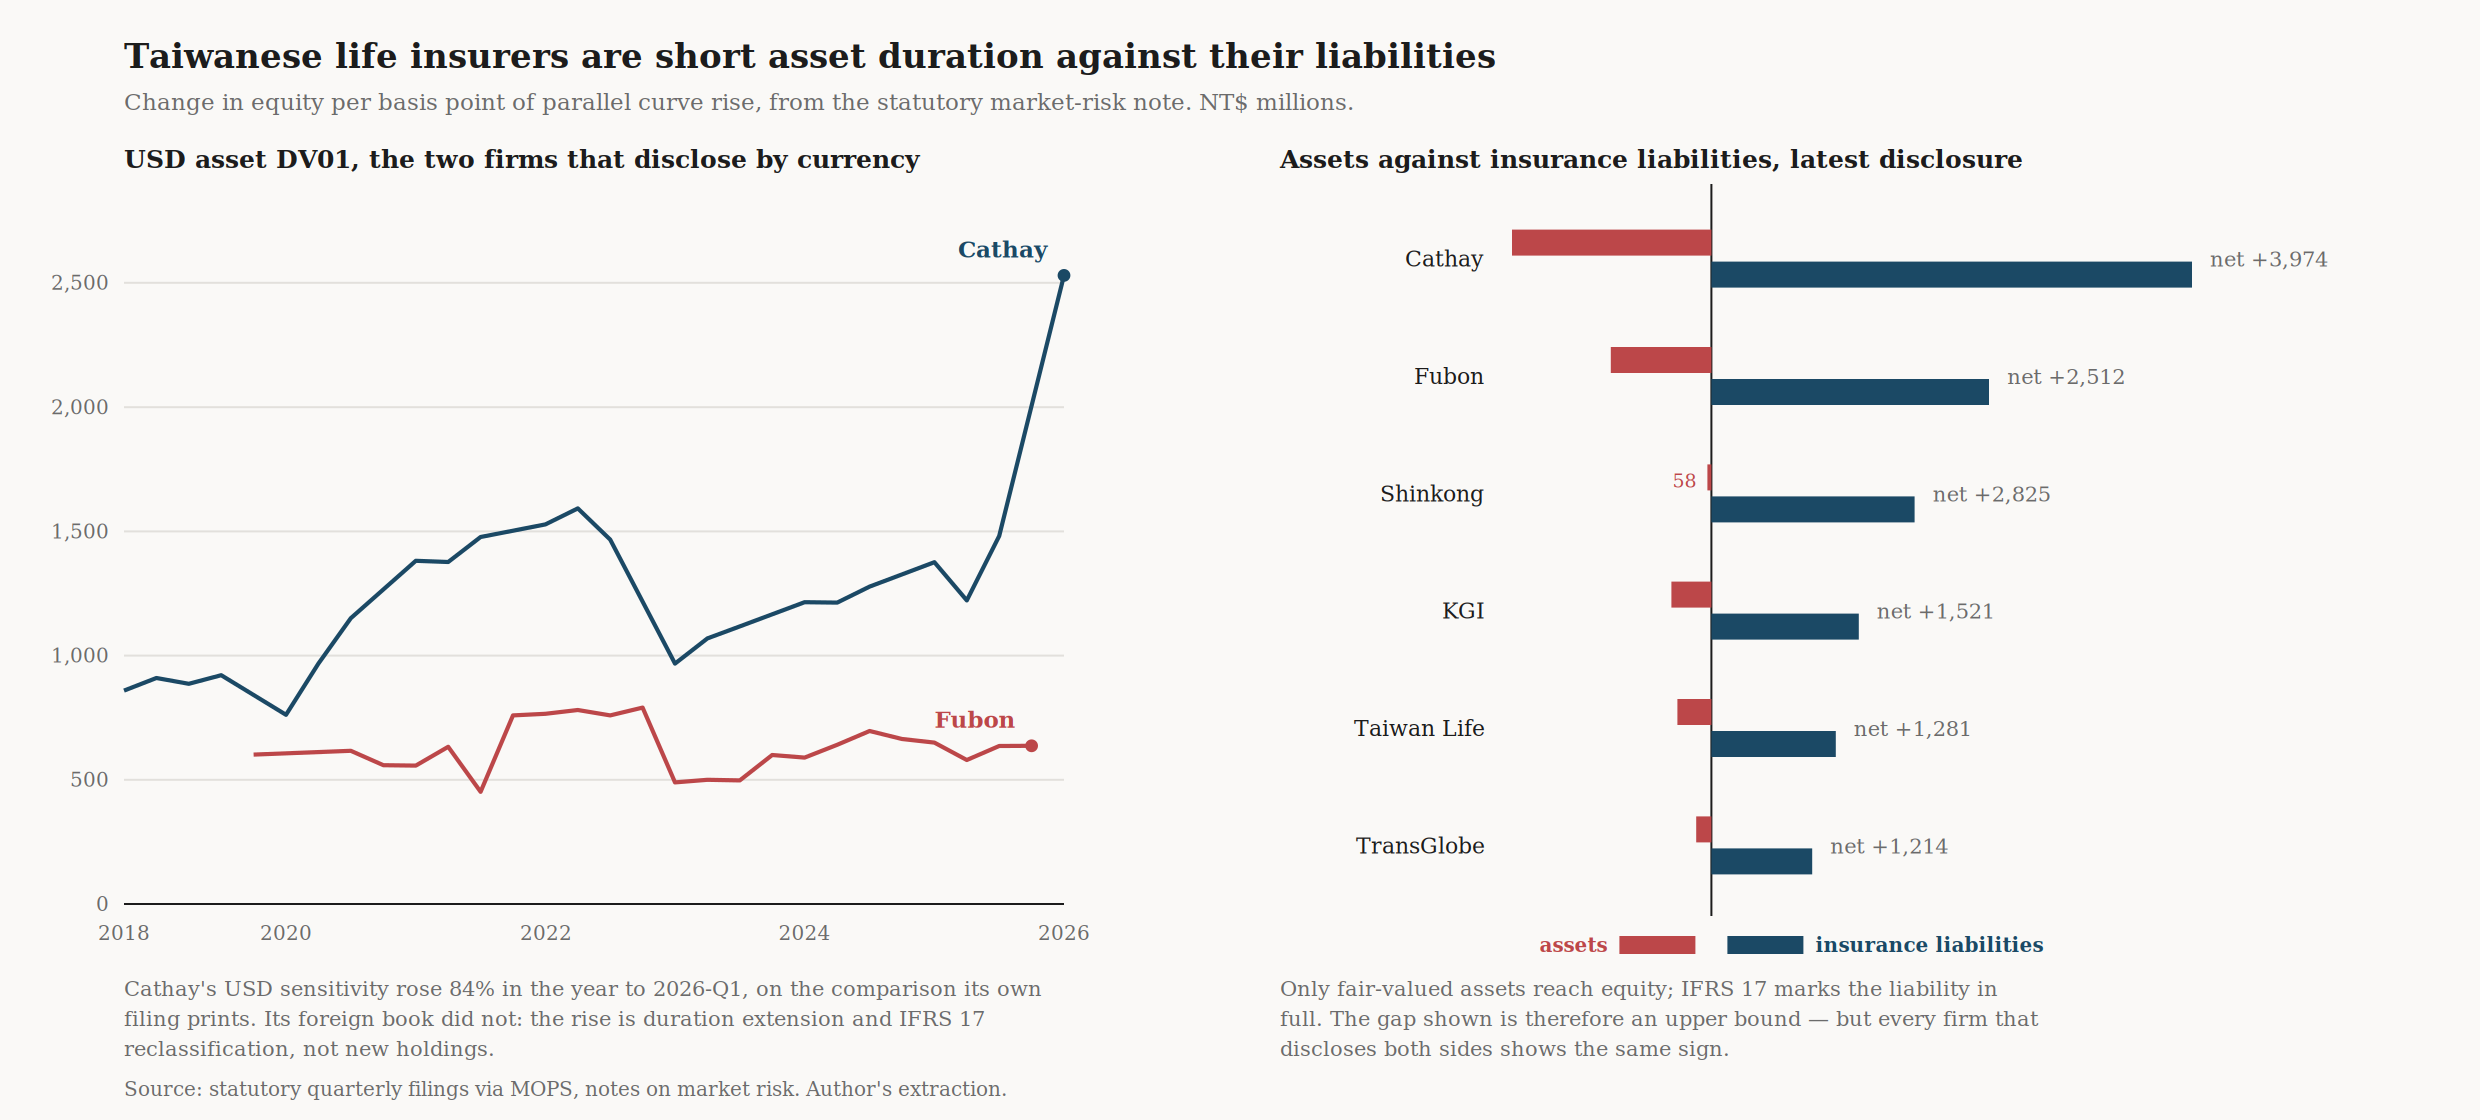
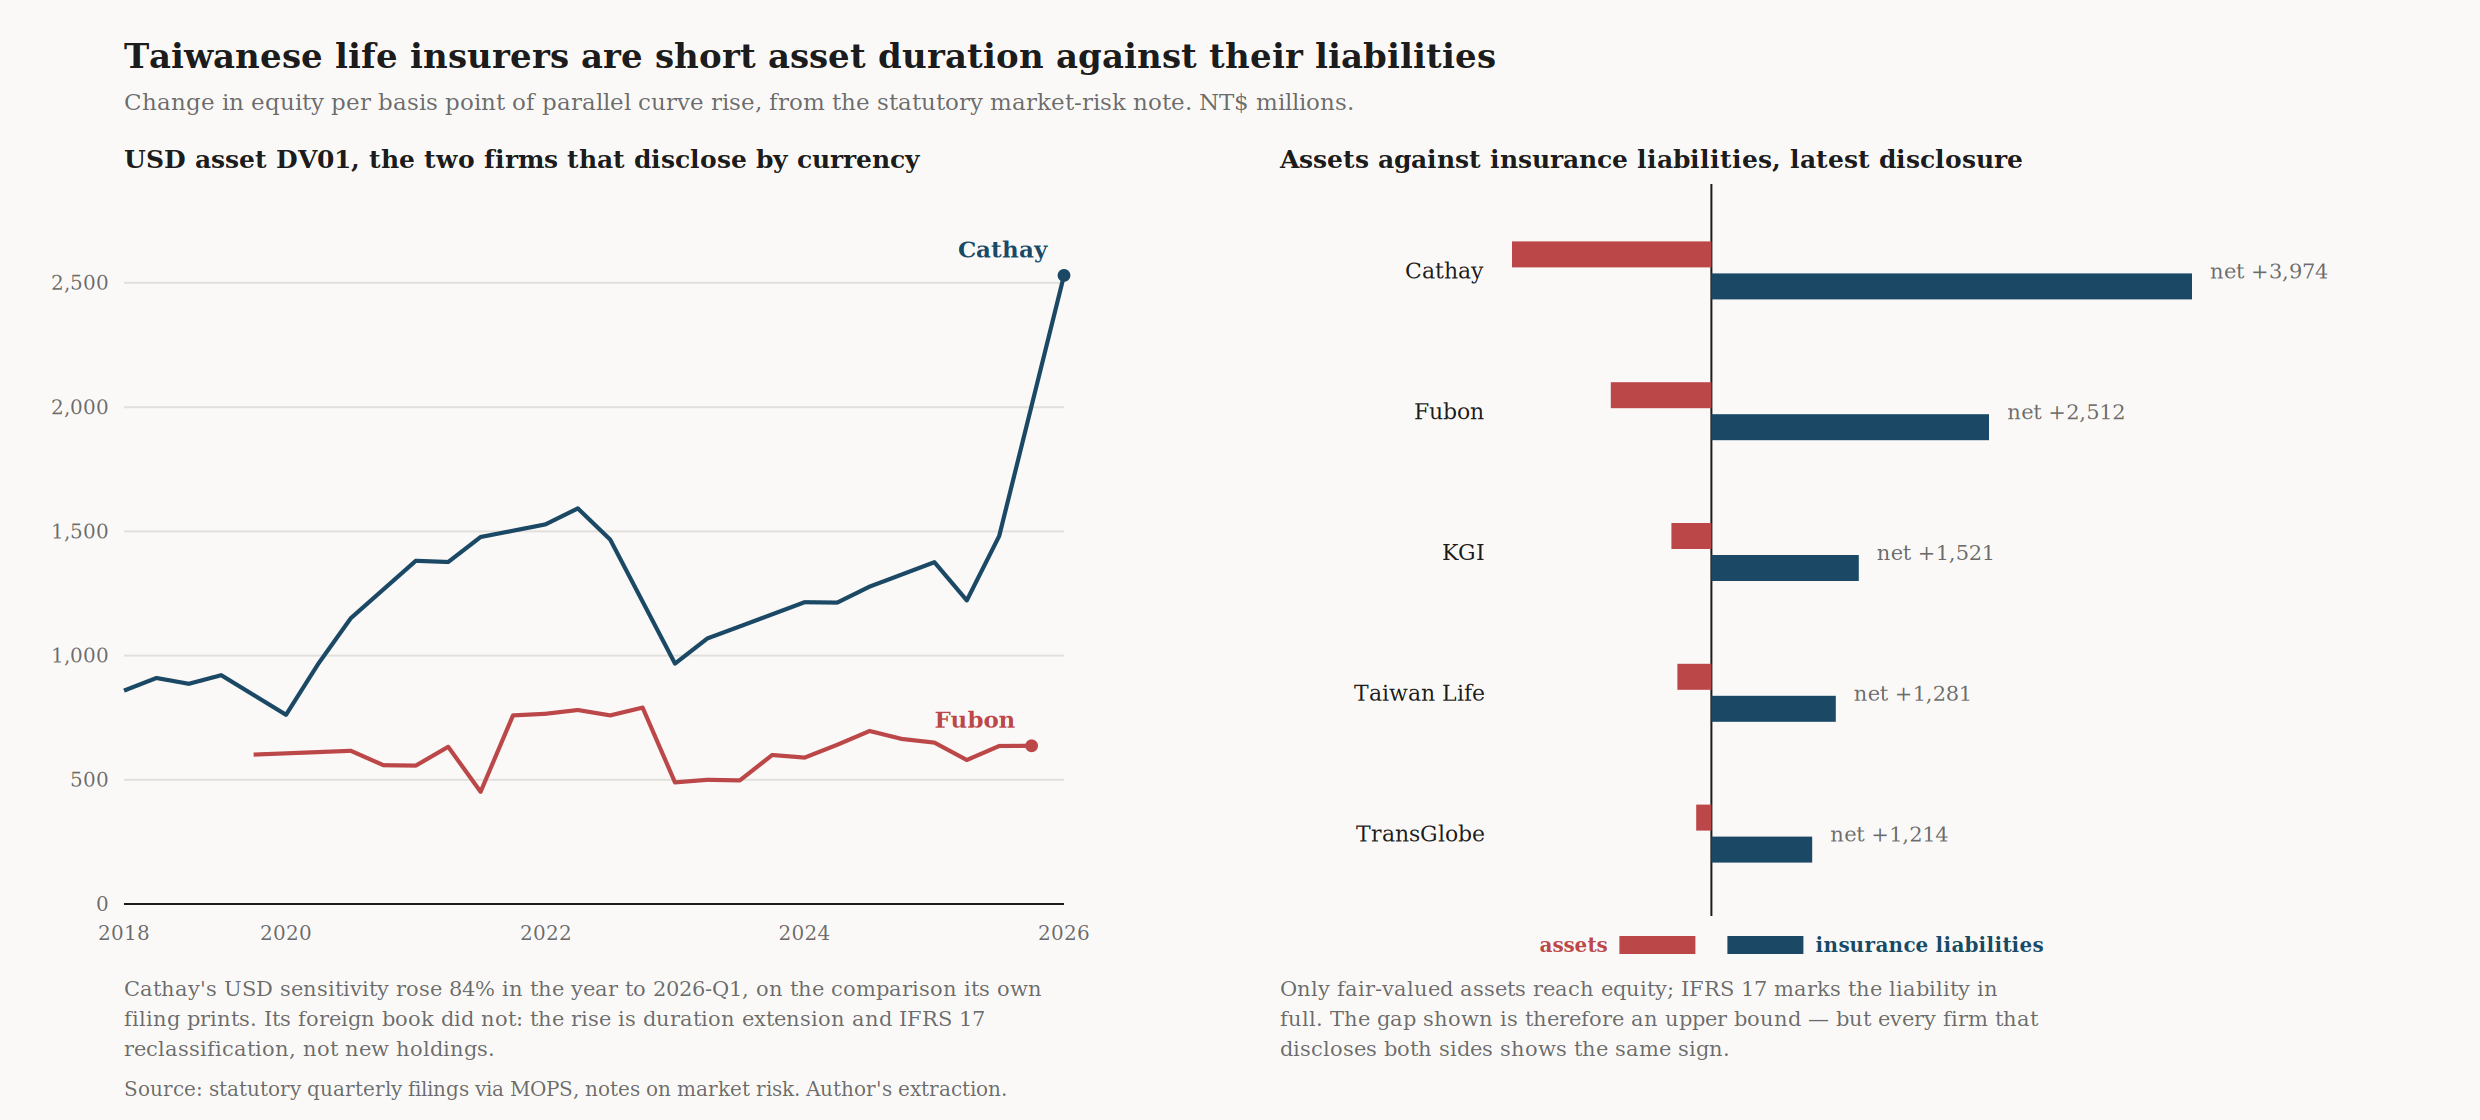
Correction: MOPS code 6985 is two different insurers
Code 6985 is Taishin Life, roughly NT$300bn of invested assets, renamed Shin
Kong Life on 2026-01-01 after Taishin absorbed the Shin Kong group. The pre-2026
Shin Kong Life - the NT$3.5tn insurer every external series means by "Shinkong"
- is a different legal entity that files under a code this project has never
indexed.

The tell is in the series itself: the liability DV01 runs +205mn/bp at 2025-03,
+191mn at 2025-06, then +2,883mn at 2025-12. That is not a firm changing its
book, it is the series changing companies. Every number is parsed and dated
correctly; the error is in the join.

Withdraws the sharpest claim of the previous entry - that only 1% of Shin Kong's
invested assets are fair-valued - which divided one company's DV01 by another
company's balance sheet. 6985 is withheld from the duration-gap headline and
the chart; its rows stay in the CSV, labelled. The sector sum falls from
+NT$12.4bn to +NT$9.5bn per bp across five firms. Cathay, Fubon, KGI, Taiwan
Life and TransGlobe are unaffected and the direction is unchanged.

Also means the Shinkong column of the sell-side comparison cannot be verified
by any route until the old entity's filing code is found.

Recorded as decision 4.61.

Claude-Session: https://claude.ai/code/session_01U6NeEFVTAXo1Ao7VaAHCtb

diff --git a/scripts/stage6_duration_panel.py b/scripts/stage6_duration_panel.py
@@ -46,6 +46,24 @@ OUT = ROOT / "data" / "duration_gap_panel.csv"
 EQUITY_MEASURES = ("equity", "oci", "pnl_and_oci")
 ASSET_SUBJECTS = ("asset", "asset_fvoci", "asset_fvpl", "total")
 
+# MOPS code 6985 is not one company across this window. It is Taishin Life, an
+# insurer with about NT$300bn of invested assets, which was renamed Shin Kong
+# Life on 2026-01-01 after Taishin absorbed the Shin Kong group. The PRE-2026
+# Shin Kong Life — the NT$3.5tn insurer every external series means by
+# "Shinkong" — is a different legal entity (統編 03458902) that files under a
+# code this project has never indexed.
+#
+# The consequence is visible in the numbers and is not subtle: the liability
+# DV01 read off 6985's filings is +205mn/bp at 2025-03, +191mn at 2025-06 and
+# +2,883mn at 2025-12. That is not a firm changing its book, it is the series
+# changing companies. Publishing those three points as one insurer's history
+# would be wrong in the way that is hardest to catch — a plausible level, a
+# plausible trend, and two different balance sheets.
+#
+# So 6985 is withheld from the headline until its filings are separated by
+# reporting entity. The rows stay in the CSV, labelled.
+ENTITY_UNRESOLVED = {"shinkong_life"}
+
 
 def usdtwd():
     with open(FX, newline="", encoding="utf-8") as fh:
@@ -132,7 +150,7 @@ def main():
     # ---- the cross-section, at each firm's latest disclosed period
     latest = {}
     for r in rows:
-        if r["currency"] != "all":
+        if r["currency"] != "all" or r["entity_id"] in ENTITY_UNRESOLVED:
             continue
         k = r["entity_id"]
         if k not in latest or r["as_of"] > latest[k]["as_of"]:
@@ -156,6 +174,12 @@ def main():
           f"{tn / 1e3:>10,.0f}   {tn / 1e6:>10,.1f}bn")
     print("\n  The sum is indicative, not a sector total: the periods differ,\n"
           "  and firms that disclose only one side contribute only that side.")
+    if ENTITY_UNRESOLVED:
+        print(f"  WITHHELD pending entity resolution: "
+              f"{', '.join(sorted(ENTITY_UNRESOLVED))} — MOPS code 6985 covers\n"
+              f"  Taishin Life and, after the 2026 rename, the Shin Kong "
+              f"survivor. Two companies,\n  one series; see the note at the "
+              f"head of this file.")
 
     # ---- what the asset figure implies about the fair-valued bond book
     print("\nIMPLIED FAIR-VALUED BOND BOOK from the asset-side DV01")

diff --git a/scripts/stage6_duration_chart.py b/scripts/stage6_duration_chart.py
@@ -63,6 +63,10 @@ def main():
     for r in csv.DictReader(open(GAP, newline="", encoding="utf-8")):
         if r["currency"] != "all" or not r["liability_dv01_ntd_k"]:
             continue
+        # 6985 is Taishin Life before 2026 and the Shin Kong survivor after;
+        # the series changes company mid-window (see stage6_duration_panel).
+        if r["entity_id"] == "shinkong_life":
+            continue
         k = r["entity_id"]
         if k not in latest or r["as_of"] > latest[k]["as_of"]:
             latest[k] = r

diff --git a/docs/decisions.md b/docs/decisions.md
@@ -4850,15 +4850,14 @@ point; positive means a rate RISE increases equity.**
 | firm | as of | assets | liabilities | net |
 |---|---|---|---|---|
 | Cathay | 2026-06-30 | −2,830 | +6,817 | **+3,974** |
-| Shinkong | 2025-12-31 | −58 | +2,883 | **+2,825** |
 | Fubon | 2026-06-30 | −1,427 | +3,940 | **+2,512** |
 | KGI | 2026-06-30 | −569 | +2,090 | **+1,521** |
 | Taiwan Life | 2026-06-30 | −483 | +1,765 | **+1,281** |
 | TransGlobe | 2026-06-30 | −216 | +1,429 | **+1,214** |
 
 Every firm that discloses both sides shows the same sign, and the magnitudes
-are large: for the six together, +NT$12.4bn of equity per basis point, or
-NT$1.24兆 per 100bp against a sector equity base of roughly NT$2兆. The sign is
+are large: for the five together, +NT$9.5bn of equity per basis point, or
+NT$0.95兆 per 100bp against a sector equity base of roughly NT$2兆. The sign is
 the finding. These books are short asset duration against their liabilities by
 a wide margin, which is the structural reason the sector buys long USD paper
 and keeps buying it — the demand is a balance-sheet requirement, not a view.
@@ -4869,10 +4868,7 @@ carries duration that never appears in the asset column. The liability side has
 no such exemption under IFRS 17. So the disclosed gap is an upper bound. The
 size of the exemption is visible in the same table: the asset DV01 implies a
 fair-valued bond book, at D=13, of 27% of invested assets for Cathay, 19% for
-Fubon, 18% KGI, 16% Taiwan Life, 5% Nan Shan, **1% for Shinkong**. Shinkong's
-near-nil asset column against a NT$2,883mn liability column is not a parse
-failure — it is a firm whose assets are almost entirely at amortised cost while
-its liabilities are marked in full.
+Fubon, 18% KGI, 16% Taiwan Life and 5% for Nan Shan.
 
 **Nan Shan states the same fact explicitly** rather than by omission: its rate
 table has no asset/liability split at all, only 透過損益 and 透過其他綜合損益
@@ -4989,3 +4985,53 @@ history is published and archived and simply has not been harvested.
 **Coverage note on the workbook itself.** It covers Cathay, Fubon, Shinkong,
 China Life/KGI and Taiwan Life. It omits Nan Shan, which is the second-largest
 insurer in the sector by invested assets (NT$5.4兆, larger than Fubon).
+
+## 4.61 CORRECTION — MOPS code 6985 is two different insurers, and 4.59 published one of them as the other
+
+Decision 4.59 reported Shin Kong with an asset-side DV01 of −NT$58mn/bp against
+a liability side of +NT$2,883mn/bp, and drew from it that only **1%** of its
+invested assets are fair-valued — the sharpest single claim in that entry. It
+is withdrawn. The two numbers are not the same company.
+
+**What 6985 actually is.** It is Taishin Life, an insurer with roughly NT$300bn
+of invested assets, which was renamed **Shin Kong Life on 2026-01-01** after
+Taishin absorbed the Shin Kong group. The pre-2026 Shin Kong Life — the
+NT$3.5tn insurer that every external series, including the sell-side workbook
+of 4.60, means by "Shinkong" — is a different legal entity, 統編 03458902, and
+it files under a MOPS code this project has never indexed. The repository
+already recorded the two 統編 in `config/firm_uids.tsv`; what it did not do was
+carry that distinction into the filing index, where both sit under one
+`entity_id`.
+
+**How it shows up, and why it was missed.** The liability DV01 read off 6985's
+filings runs +205mn/bp at 2025-03, +191mn at 2025-06, then +2,883mn at 2025-12
+— a fourteenfold step. That is not a firm changing its book; it is the series
+changing companies. Every individual number is correctly parsed and correctly
+dated. Nothing in the extraction is wrong. The error is entirely in the join,
+which is the failure mode this project keeps meeting: output that is plausible,
+correctly shaped, right order of magnitude, and about the wrong thing.
+
+**Scope of the correction.** 6985 is withheld from the duration-gap headline
+and from the chart; its rows stay in `data/firm_rate_sensitivity.csv`, labelled.
+The sector sum in 4.59 falls from +NT$12.4bn to **+NT$9.5bn per bp** across five
+firms. Nothing else in 4.59 moves: Cathay, Fubon, KGI, Taiwan Life and
+TransGlobe are unaffected, every one still shows the same sign, and the
+conclusion — that these books are short asset duration against their
+liabilities by a wide margin — is unchanged.
+
+**What it means for the sell-side comparison (4.60).** The workbook's Shinkong
+column for 4Q18–1H25 is the OLD Shin Kong Life. This project holds no statutory
+filing for that entity at all, so Shinkong cannot yet be verified independently
+by any route — deck or filing. Finding its MOPS filing code is therefore a
+precondition for the Shinkong column, not an optional extra. The insurers in
+the index sit at 2823, 2833, 2867, 2876, 5846, 5865, 5873, 5874, 6025, 6985;
+Cathay, Fubon, TransGlobe and Nan Shan occupy a 58xx block, which is where the
+old Shin Kong Life most likely sits. MOPS answers that question and rate-limits
+this sandbox, so it is a CI probe.
+
+**The general lesson, recorded because it will recur.** Taiwan's insurance
+sector is mid-consolidation: Shin Kong into Taishin, China Life into KGI,
+Taiwan Life under CTBC. A filing code is not an entity, an entity is not a
+brand, and a brand is not a continuous series. Every firm-level series in this
+project should be keyed on 統編 and dated against the merger calendar, not on a
+filing code carried forward.
